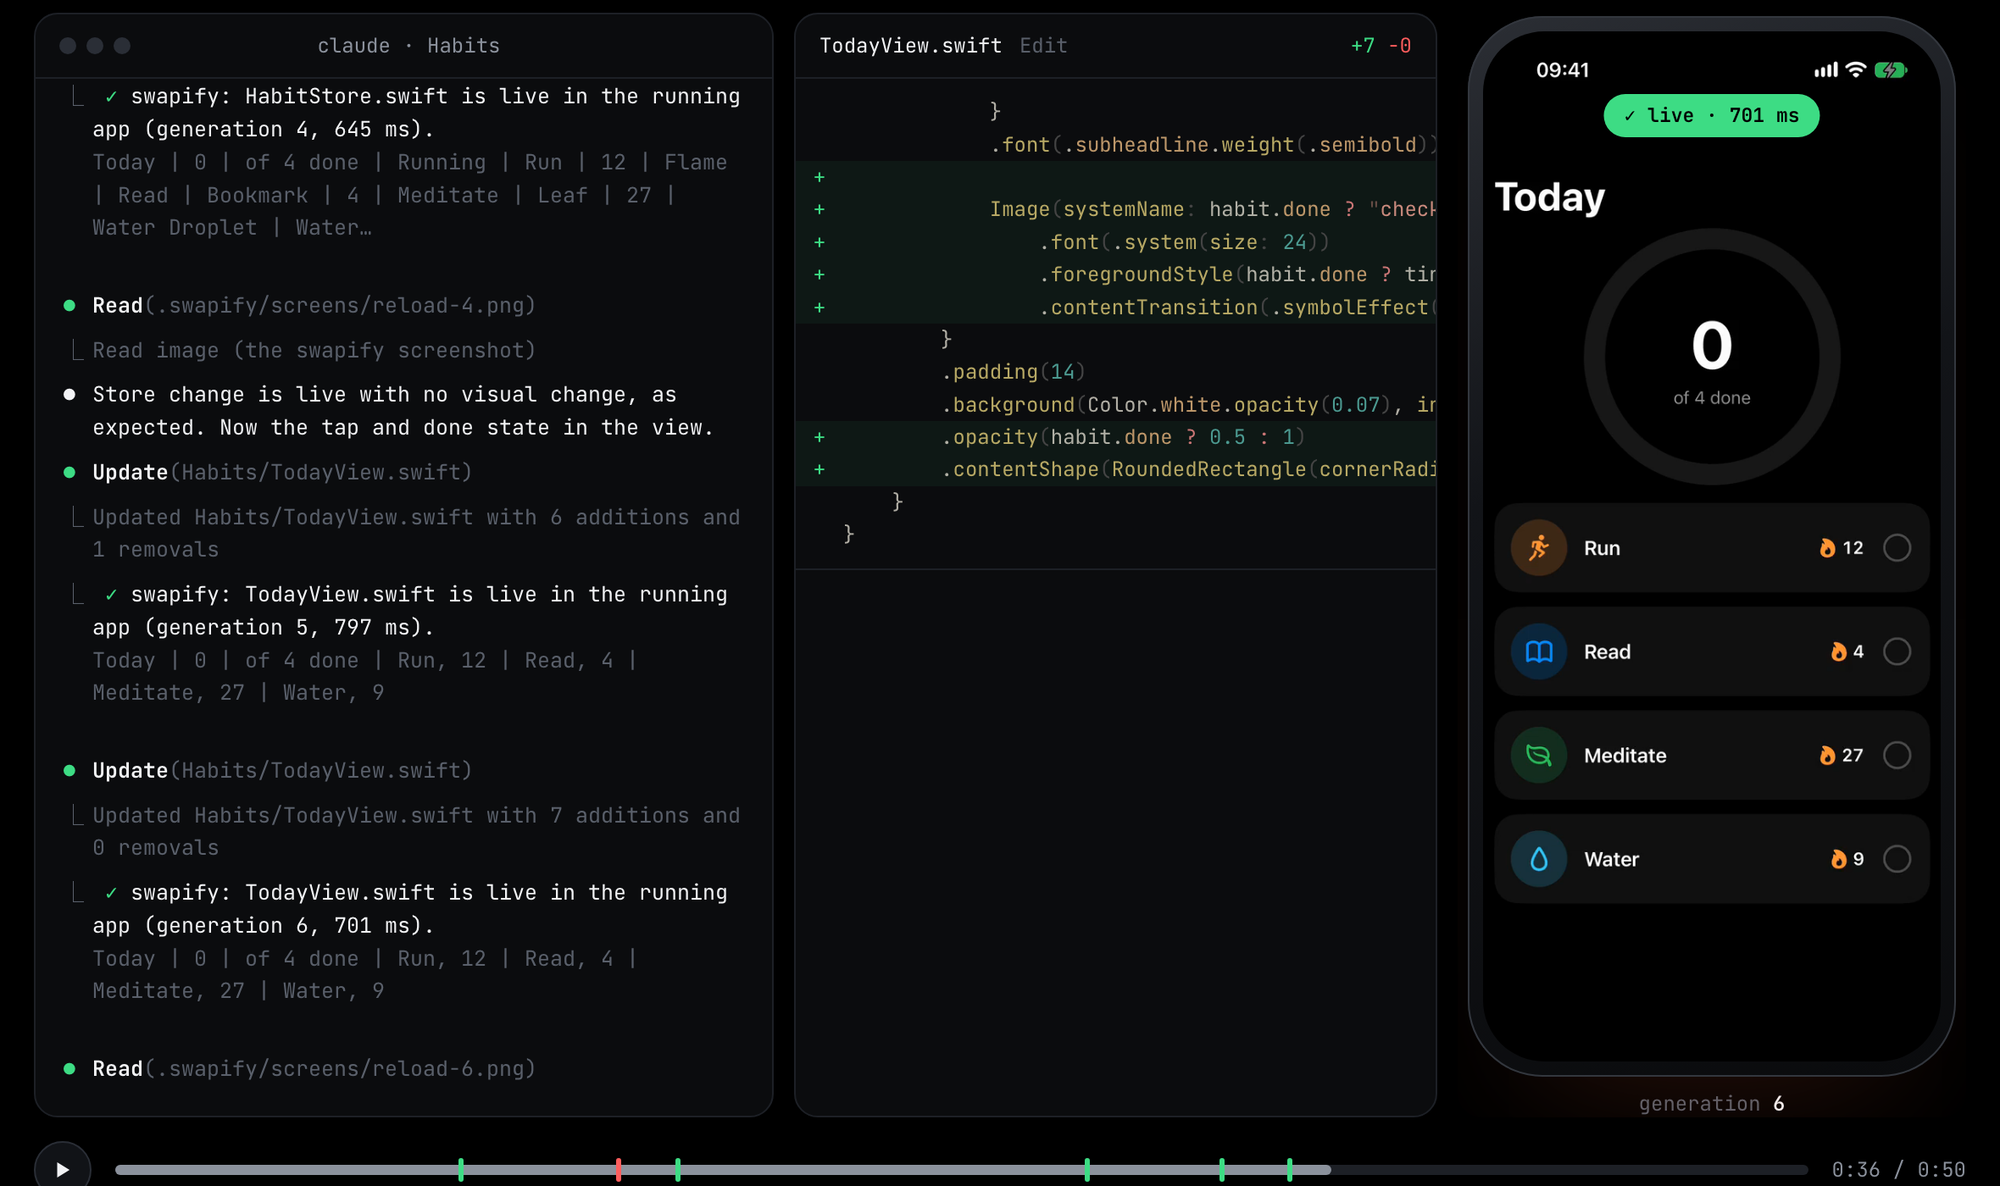
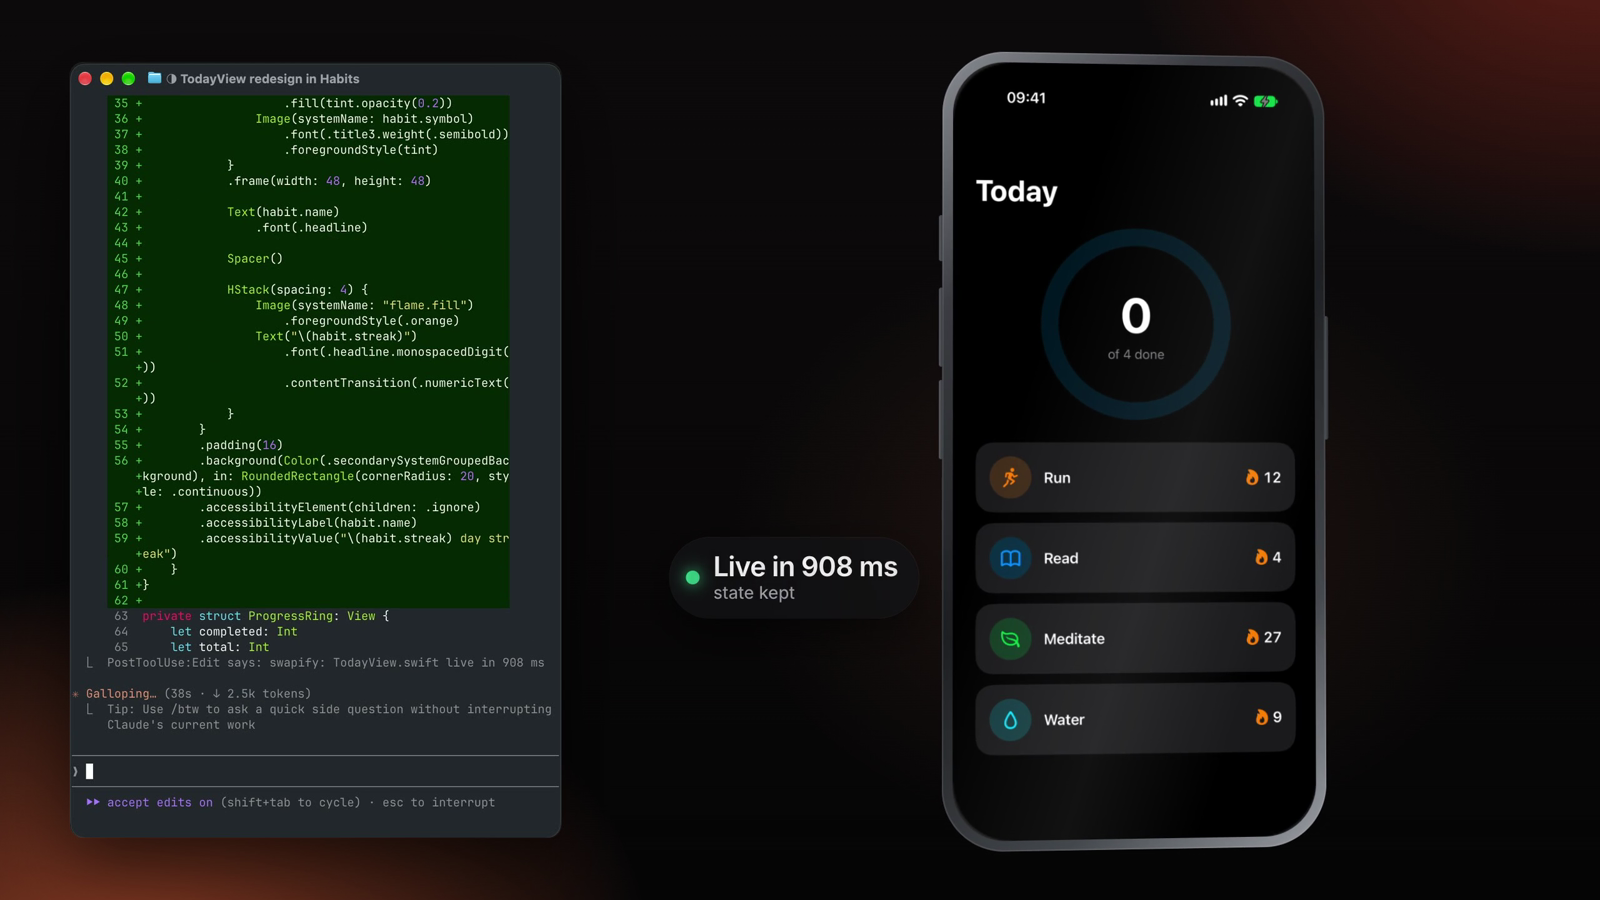
Use a frame of the landing page film in the README
The still is now the film's second reload: the real terminal with its
hook line and the real phone screen in a device frame. The hook example
shows both the line the person sees and the result the agent reads.

diff --git a/README.md b/README.md
@@ -7,7 +7,7 @@
 <h3 align="center">Agentic hot reload for iOS apps.</h3>
 
 <p align="center">
-  <img src=".github/assets/film.png" width="100%" alt="A Claude Code session on the left, the diff of its last edit in the middle, and the Habits app in the iOS Simulator on the right with a green 'live · 701 ms' badge" />
+  <img src=".github/assets/film.png" width="100%" alt="Claude Code in a terminal on the left, its last edit ending with the line 'swapify: TodayView.swift live in 908 ms'; on the right the Habits app on an iPhone, redesigned into cards, next to a label reading Live in 908 ms, state kept" />
 </p>
 
 swapify patches Swift edits into an iOS app that is already running in the simulator. Only the edited file is recompiled. The app keeps its screen, its navigation stack, `@State`, and its data. The agent gets a screenshot and the visible text back, so it can check what it did before it does the next thing.
@@ -16,16 +16,22 @@ A one-line edit to a view in a 979-file TCA app: 10.2 s to rebuild and relaunch,
 
 ## Let the agent see what it did
 
-`swapify init` installs a Claude Code hook. After every `Edit` or `Write` of a Swift file, the hook reloads it and puts the result next to the tool call:
+`swapify init` installs a Claude Code hook. After every `Edit` or `Write` of a Swift file, the hook reloads it. You see one line under the edit:
 
 ```text
-⎿ swapify: TodayView.swift is live in the running app (generation 3, 723 ms).
-  Screenshot: .swapify/screens/reload-3.png. Visible text: Today | 0 | of 4 done | Run | 12 | …
+⎿ PostToolUse:Edit says: swapify: TodayView.swift live in 698 ms
+```
+
+The agent reads the whole result, with a screenshot it can open:
+
+```text
+swapify: TodayView.swift is live in the running app (generation 2, 894 ms).
+Screenshot: .swapify/screens/reload-2.png. Visible text: Today | 0 of 4 done | Run | 12 days | …
 ```
 
 If the file does not compile, the agent gets the compiler errors and the app keeps running the last code that compiled. If the edit changes the memory layout of a type, the agent is told to rebuild, and nothing is patched.
 
-The image above is from a real session: a plain list redesigned into cards, a progress ring, and tap-to-complete, in 6 edits and 85 seconds. The [landing page](https://github.com/tornikegomareli/swapify-site) plays all of it.
+The image above is a frame of the landing page film, cut from one take of a real screen: Claude Code redesigns a plain list into a progress ring, cards, and tap-to-complete in 6 edits and 70 seconds, then taps two habits to check the result. Each edit is live in the app in 681 to 908 ms. The [landing page](https://github.com/tornikegomareli/swapify-site) plays it.
 
 ## Try things, keep what works
 
